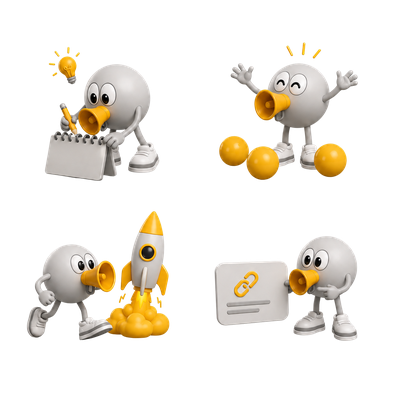
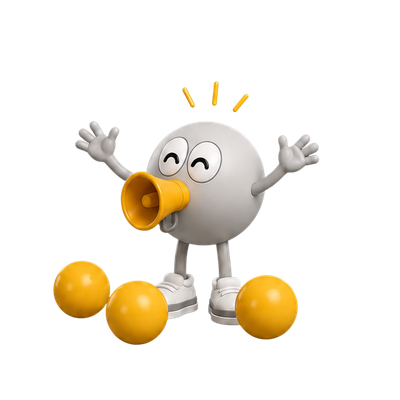
Fix Hero line reach/speed, un-clip Challenge mascot, link deep-dive image
- Hero lines: container widened to a full 100vw breakout (was capped to
  the hero's own 1280px box) so orange now reaches the viewport's left
  edge and gray reaches the right edge; sped up the wiggle (12s/16s -> 8s/11s)
- Challenge mascot: switched from a zoomed sprite-sheet crop to a
  standalone extracted character and dropped overflow:hidden, so it
  spills past its disc like the Results rocket mascot does
- Research: removed the "(SCR-05)" placeholder sentence per Roman (no
  confirmed real screen name to reference yet), fixed the em dash to a
  comma in the sentence that remains
- "How I Approached It" deep-dive image now links out to the live
  FigJam board (opens in a new tab), with a hover dim/zoom + hint label
- Widened the gap between the Results card and the "Open Real Product"
  callout (24px -> 40px)

diff --git a/css/case-yoy.css b/css/case-yoy.css
@@ -129,6 +129,57 @@
   border-radius: 16px;
 }
 
+/*
+  New 2026-09-10: the "How I Approached It" deep-dive image links out to
+  the live FigJam board — hover feedback (dim + zoom + a small hint
+  label) so it reads as clickable, not just a static screenshot.
+*/
+.yoy-media--linked {
+  overflow: hidden;
+}
+
+.yoy-media--linked a {
+  position: relative;
+  display: block;
+}
+
+.yoy-media--linked img {
+  display: block;
+  transition: transform 0.3s ease, filter 0.3s ease;
+}
+
+.yoy-media--linked a:hover img,
+.yoy-media--linked a:focus-visible img {
+  transform: scale(1.02);
+  filter: brightness(0.85);
+}
+
+.yoy-media__hint {
+  position: absolute;
+  right: 16px;
+  bottom: 16px;
+  display: inline-flex;
+  align-items: center;
+  gap: 6px;
+  padding: 8px 14px;
+  background-color: rgba(26, 26, 26, 0.9);
+  border: 1px solid rgba(255, 184, 0, 0.3);
+  border-radius: 6px;
+  color: var(--yoy-accent);
+  font-family: var(--font-display);
+  font-weight: 600;
+  font-size: 14px;
+  opacity: 0;
+  transform: translateY(6px);
+  transition: opacity 0.2s ease, transform 0.2s ease;
+}
+
+.yoy-media--linked a:hover .yoy-media__hint,
+.yoy-media--linked a:focus-visible .yoy-media__hint {
+  opacity: 1;
+  transform: translateY(0);
+}
+
 .yoy-panel {
   background-color: var(--yoy-tint);
   border-radius: 16px;
@@ -278,11 +329,22 @@
   display: none;
 }
 
+/*
+  Fixed 2026-09-10 (correction pass): container widened from the hero's
+  own box (max-width:1280 at wide screens) to a full 100vw breakout
+  (same left:50%/-50vw trick as the gradient), and the two lines
+  repositioned so orange reaches the viewport's left edge and gray
+  reaches its right edge, per Roman.
+*/
 @media (min-width: 1024px) {
   .yoy-hero__lines {
     display: block;
     position: absolute;
-    inset: 0;
+    top: 0;
+    bottom: 0;
+    left: 50%;
+    width: 100vw;
+    margin-left: -50vw;
     overflow: hidden;
     z-index: 0;
     pointer-events: none;
@@ -295,27 +357,29 @@
 }
 
 .yoy-hero__line--gray {
-  left: 67.16%;
+  left: 58%;
   top: -32.09%;
-  width: 50.75%;
+  width: 44%;
   height: 83.12%;
   transform: rotate(-141.16deg) scaleY(-1);
 }
 
 .yoy-hero__line--orange {
-  left: -5.29%;
+  left: -4%;
   top: 4.97%;
-  width: 107.79%;
+  width: 106%;
   height: 134.49%;
   transform: rotate(-10.24deg);
 }
 
+/* Fixed 2026-09-10: sped up (12s/16s -> 8s/11s) — Roman said the wiggle
+   was barely noticeable; still eased, not abrupt. */
 .yoy-hero__line--gray path {
-  animation: yoy-line-wiggle-gray 12s ease-in-out infinite;
+  animation: yoy-line-wiggle-gray 8s ease-in-out infinite;
 }
 
 .yoy-hero__line--orange path {
-  animation: yoy-line-wiggle-orange 16s ease-in-out infinite;
+  animation: yoy-line-wiggle-orange 11s ease-in-out infinite;
 }
 
 @keyframes yoy-line-wiggle-gray {
@@ -589,22 +653,29 @@
   }
 }
 
+/*
+  Fixed 2026-09-10 (correction pass): switched from a zoomed sprite-sheet
+  crop to a standalone extracted character (mascot-peek.webp — cropped
+  out of the same source, own file), and dropped overflow:hidden — Roman
+  wants this mascot spilling past its disc like the Results one, not
+  contained.
+*/
 .yoy-row__mascot {
   width: 70px;
   height: 68px;
   border-radius: 50%;
   background-color: #2a2b2c;
-  overflow: hidden;
   position: relative;
 }
 
 .yoy-row__mascot img {
   position: absolute;
-  left: -146.13%;
-  top: -51.04%;
-  width: 271.91%;
-  height: 335.47%;
+  left: 50%;
+  top: 50%;
+  width: 160%;
+  height: 160%;
   max-width: none;
+  transform: translate(-50%, -50%);
 }
 
 /* ---------- Research / Approach (768:13294) ---------- */
@@ -899,7 +970,7 @@
   flex-direction: column;
   align-items: flex-start;
   gap: 24px;
-  margin-top: 24px;
+  margin-top: 40px;
 }
 
 @media (min-width: 1024px) {

diff --git a/case-yoy.html b/case-yoy.html
@@ -238,9 +238,8 @@
           <img loading="lazy" class="yoy-logos__item" src="assets/case-yoy/logo-creatorstore.webp" alt="creatorstore.co" />
         </div>
         <p class="body-large yoy-body-muted" data-reveal>
-          In the per-ticket pattern, the organizer can't see the full sales picture — it's scattered
-          across cards. That's what led to showing an explicit sales-strategy choice on one screen
-          (SCR-05).
+          In the per-ticket pattern, the organizer can't see the full sales picture, it's scattered
+          across cards.
         </p>
         <div class="yoy-panel" data-reveal>
           <h3 class="h3-case-study yoy-subheading">JTBD and gaps (hypothesis)</h3>
@@ -266,8 +265,12 @@
             load. They genuinely confused users, turning event creation into a maze.
           </p>
         </div>
-        <div class="yoy-media yoy-media--wide" data-reveal>
-          <img loading="lazy" src="assets/case-yoy/yoy-maps-deep-1.webp" alt="Deep-dive flow mapping for the event-creation architecture" />
+        <!-- CONTENT: synced 2026-09-10 — hover-linked to the live FigJam board -->
+        <div class="yoy-media yoy-media--wide yoy-media--linked" data-reveal>
+          <a href="https://www.figma.com/board/H1DRhmcVqHuqJOGVtP3qfC/yoy-maps?node-id=280-1281&t=oYnc1f4jAi59G3zz-1" target="_blank" rel="noopener" aria-label="Open the full flow map in FigJam (opens in a new tab)">
+            <img loading="lazy" src="assets/case-yoy/yoy-maps-deep-1.webp" alt="Deep-dive flow mapping for the event-creation architecture" />
+            <span class="yoy-media__hint">Open full map <svg width="14" height="14" viewBox="0 0 16 16" fill="none" aria-hidden="true"><path d="M4 12L12 4M12 4H6M12 4V10" stroke="currentColor" stroke-width="1.5" stroke-linecap="round" stroke-linejoin="round" /></svg></span>
+          </a>
         </div>
       </section>
 
